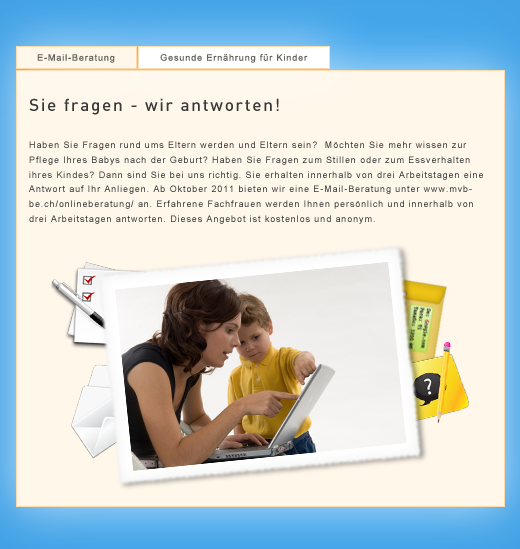
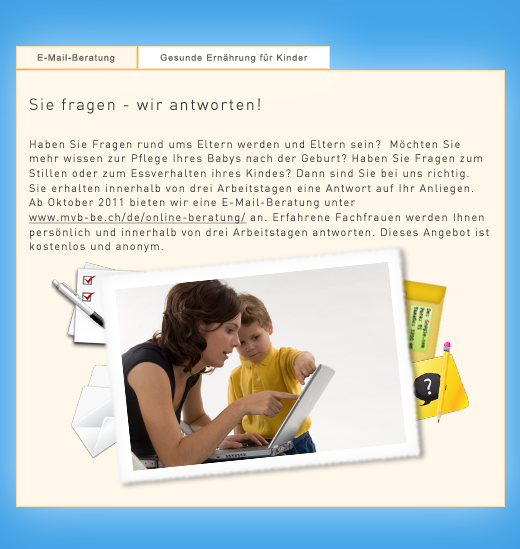
final images with correct link

Changed region(s): [[0.0615, 0.2477, 0.9538, 0.4645], [0.0615, 0.1858, 0.5231, 0.2168]]

diff --git a/css/style.css b/css/style.css
@@ -51,17 +51,17 @@ div {
 }
 
 .tab_content#tab_1 {
-  background:#ffffff url('../images/tab_1-2.png') no-repeat left top;
+  background:#ffffff url('../images/tab_1.png') no-repeat left top;
 }
 
 #tab_1 #link_1 {
   top: 212px;
   left: 28px;
-  width: 198px
+  width: 218px
 }
 
 .tab_content#tab_2 {
-  background:#ffffff url('../images/tab_2-2.png') no-repeat left top;
+  background:#ffffff url('../images/tab_2.png') no-repeat left top;
   
 }
 
